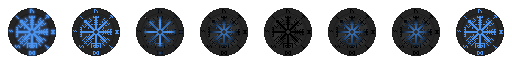
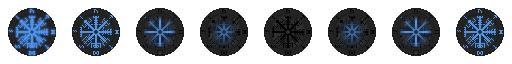
Fixed duplication of sprite in meleeTowerBase.png

Changed region(s): [[0.7812, 0.3125, 0.875, 0.75], [0.7812, 0.8125, 0.8438, 0.8438], [0.7812, 0.25, 0.8438, 0.2812]]

diff --git a/core/src/com/game/Entity/Tower/Tower.java b/core/src/com/game/Entity/Tower/Tower.java
@@ -233,8 +233,7 @@ public class Tower extends Actor {
         }
 
             if(Objects.equals(name, "meleeTower")){
-                //Chce zrobić jakby podstawę dla miecza, która nie będzie się obracać i obracalny miecz, chociaż pewnie i podstawa będzie animowana, bo mam pomysł na takie ładujące się runy cały czas
-                batch.draw(towerAnimation2.getKeyFrame(stateTime, true), position.x, position.y,towerTextureSize, towerTextureSize);
+                batch.draw(towerAnimation2.getKeyFrame(stateTime, true), position.x, position.y,towerTextureSize/2, towerTextureSize/2,towerTextureSize, towerTextureSize,scale,scale,0);
                 batch.draw(towerAnimation.getKeyFrame(stateTime, false),position.x, position.y, towerTextureSize/2, towerTextureSize/2,towerTextureSize,towerTextureSize,scale,scale,rotation);
 
             }else{

diff --git a/core/src/com/game/Entity/Tower/MeleeTower.java b/core/src/com/game/Entity/Tower/MeleeTower.java
@@ -9,7 +9,7 @@ public class MeleeTower extends Tower{
 
     public MeleeTower(int tileX, int tileY, float scale)
     {
-        super("meleeTower", "assets/game/towers/meleeTower.png", "assets/game/towers/meleeTowerBase.png",  112, new TextureRegion(new Texture(Gdx.files.internal("assets/game/bullets/meleeAttack64.png"))), 64+32, tileX, tileY, scale, 0.75f, 500, 80, 20);
+        super("meleeTower", "assets/game/towers/meleeTower.png", "assets/game/towers/meleeTowerBase.png",  64, new TextureRegion(new Texture(Gdx.files.internal("assets/game/bullets/meleeAttack64.png"))), 64, tileX, tileY, scale, 0.75f, 500, 80, 20);
 
     }
 
